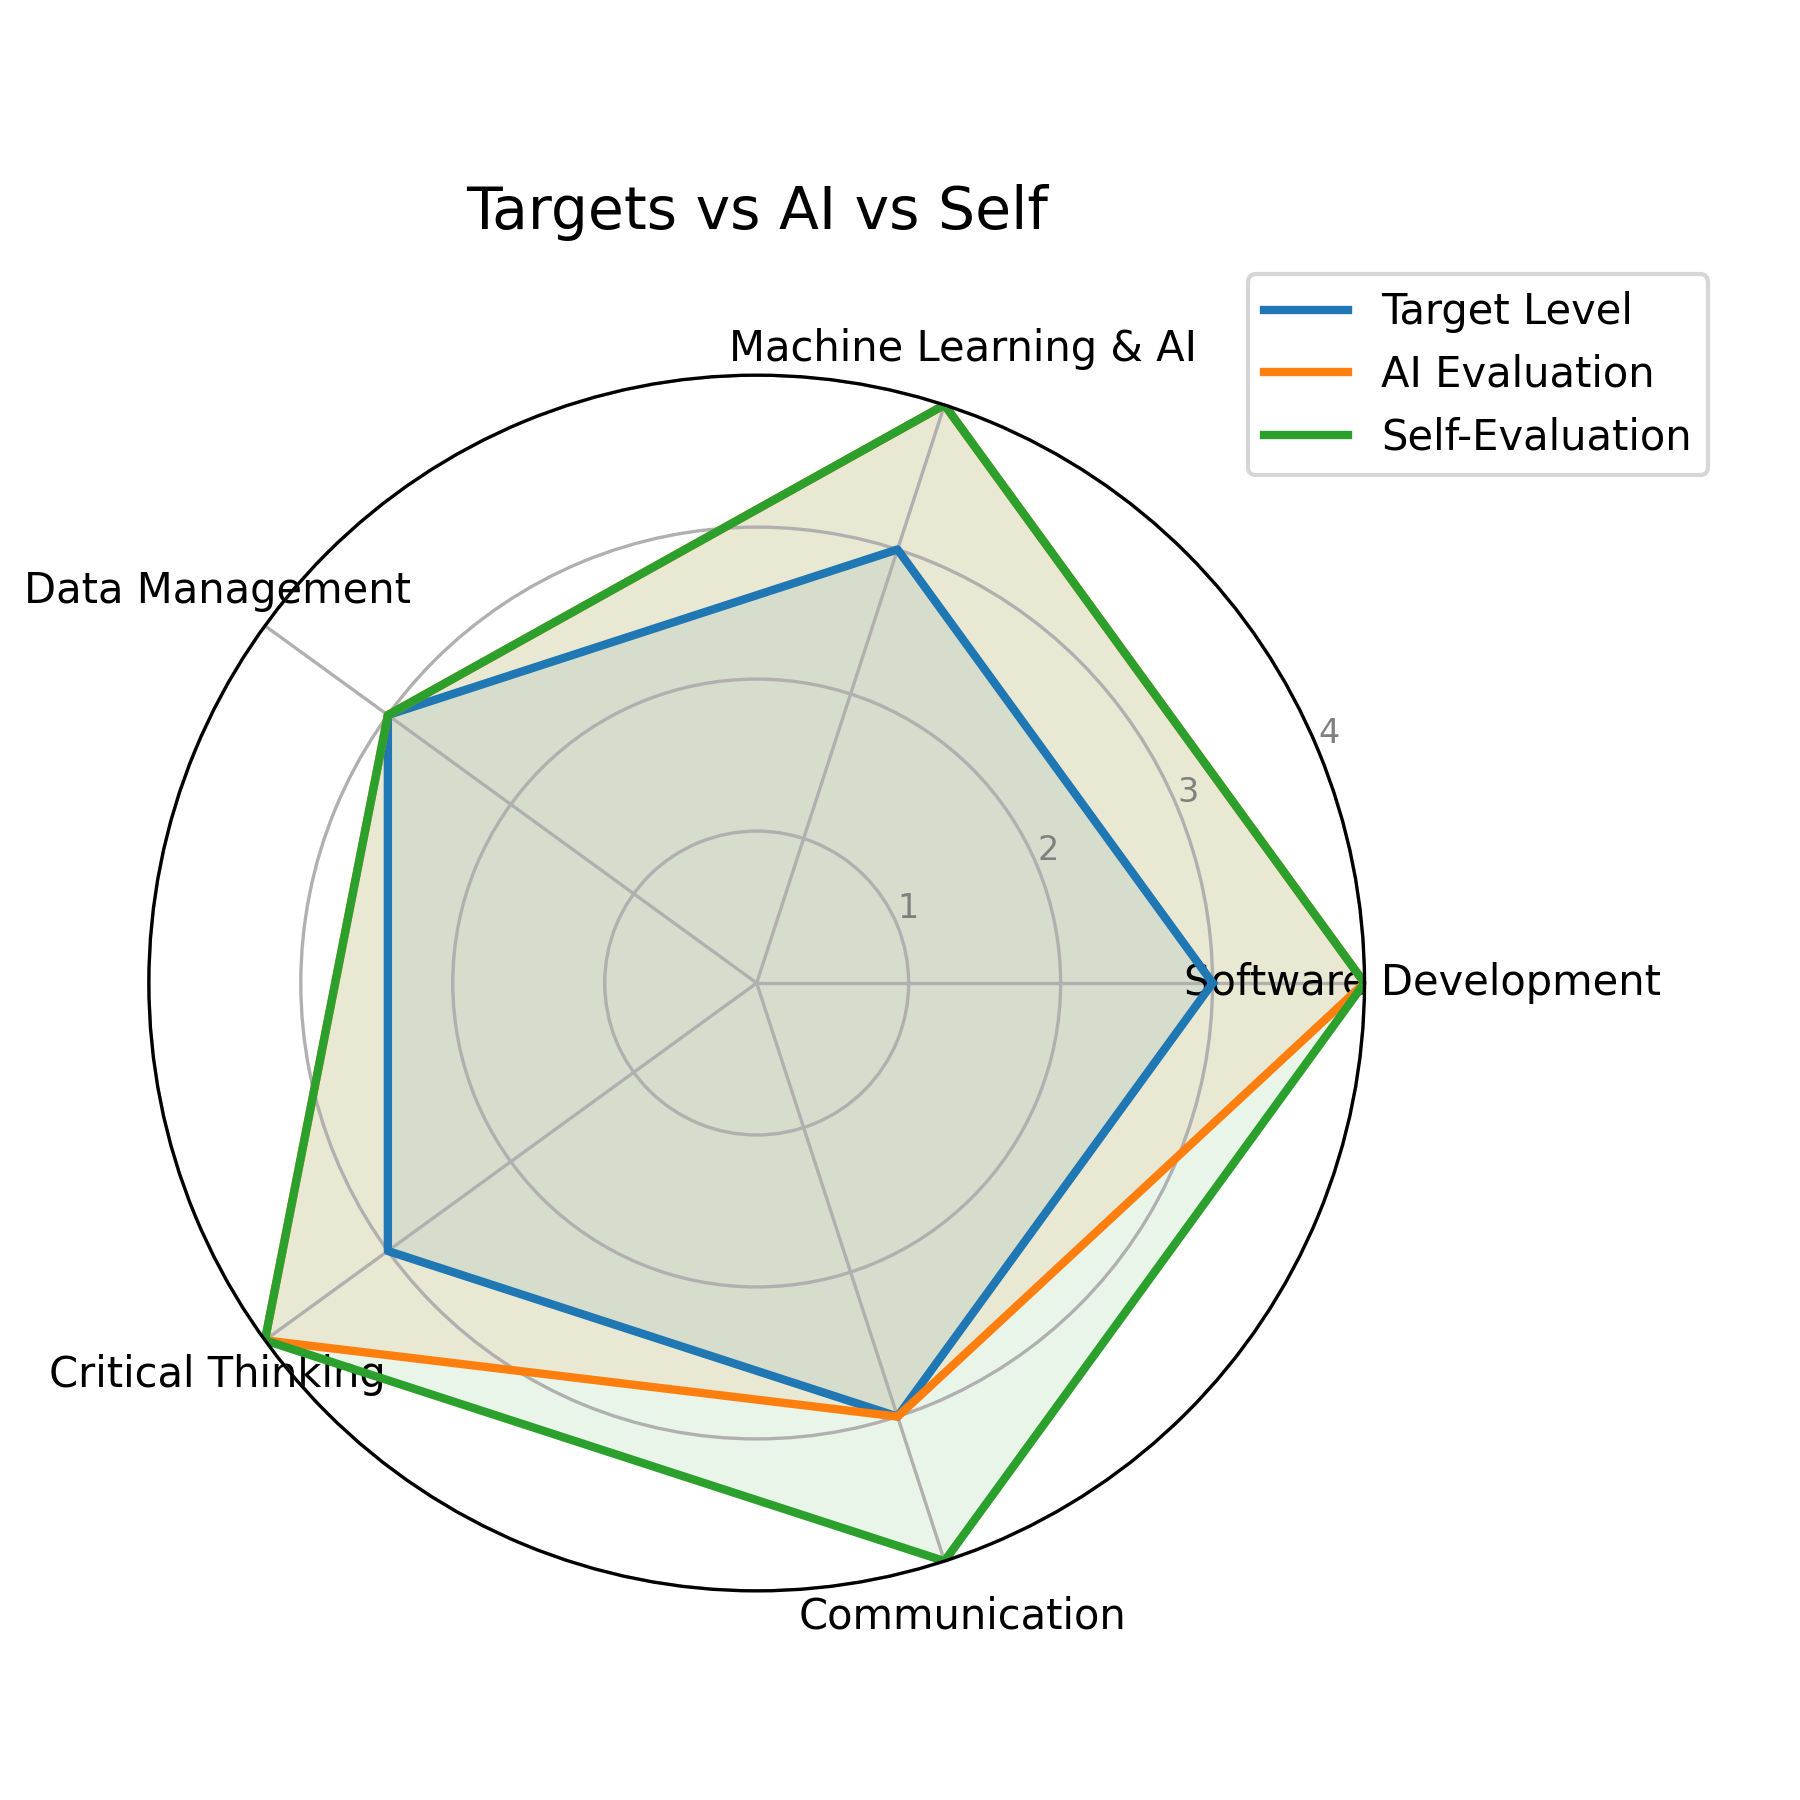
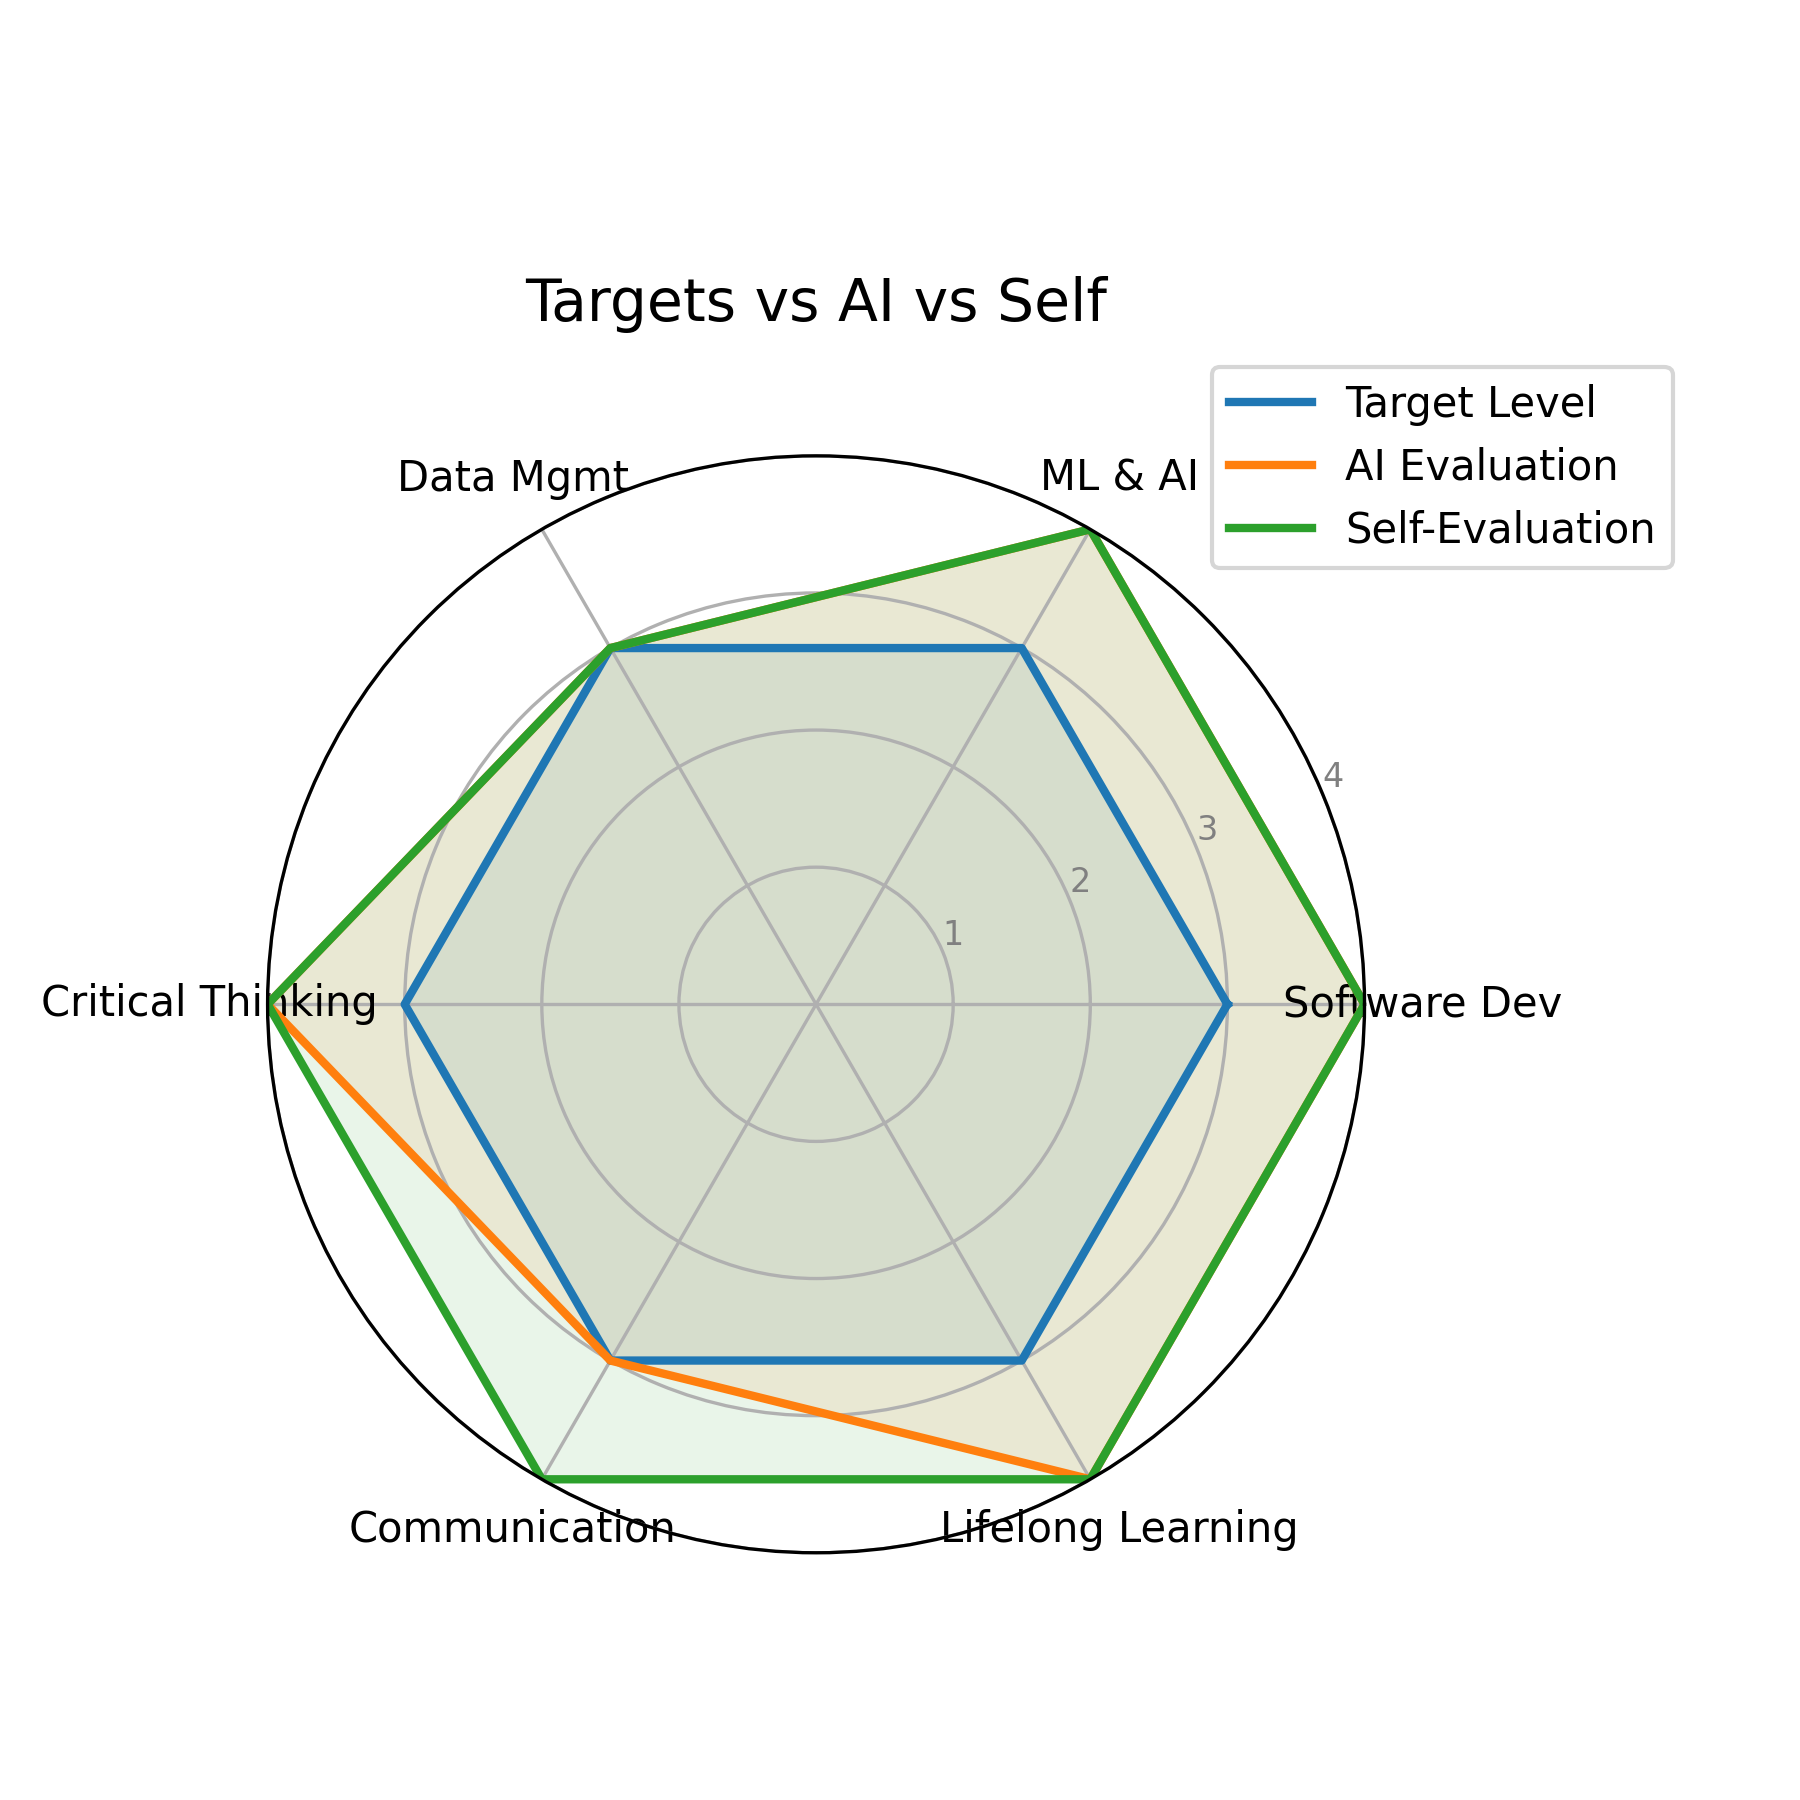
updated chap 9

diff --git a/body/knowledgeevaluation.tex b/body/knowledgeevaluation.tex
@@ -7,7 +7,18 @@ The first part focuses on comparing the program’s expected learning outcomes w
 
 \textbf{Executive Summary:} The JubJones multi-camera tracking project demonstrates strong technical proficiency, highly capable system design, and successful integration of geometric modeling and deep-learning re-identification approaches. Based on the AI evaluation, the student meets and in some areas exceeds the intended graduate outcomes of the software engineering program.
 
-\begin{table}[!ht]
+\subsection{Radar Chart Comparing Program Targets and AI Evaluation}
+This section includes a radar chart visually demonstrating the alignment or discrepancy between the intended outcomes of the curriculum and the performance assessed by AI.
+
+\begin{figure}[H]
+    \centering
+    \includegraphics[width=0.6\textwidth]{assets/eval/radar_ai_target.png}
+    \caption{Radar Chart Comparing Program Targets and AI Evaluation}
+    \label{fig:radar_ai_target}
+\end{figure}
+The chart visually demonstrates the alignment between the intended outcomes of the curriculum and the performance assessed by the AI model. The AI evaluator assigned higher proficiency levels in SE, AI, and Critical Thinking due to the advanced technical optimizations demonstrated.
+
+\begin{table}[H]
     \centering
     \small
     \begin{tabularx}{\textwidth}{|p{2.8cm}|X|X|c|c|c|}
@@ -24,6 +35,8 @@ The first part focuses on comparing the program’s expected learning outcomes w
         \hline
         Collaboration \& Communication & Writes clear documentation, gathers feedback, and collaborates. & Thorough academic writing (IEEE format), systematic problem analysis, and robust experimental design. & 3 & 3 & 3 \\
         \hline
+        Lifelong Learning & Demonstrates continuous independent learning and adapts new technologies. & Rapidly assimilated and implemented advanced SOTA models (OSNet) and complex geometric algorithms independently. & 3 & 4 & 4 \\
+        \hline
     \end{tabularx}
     \caption{Detailed AI Evaluation of Knowledge and Skills based on Curriculum Rubric}
 \end{table}
@@ -35,18 +48,8 @@ The first part focuses on comparing the program’s expected learning outcomes w
     \item \textbf{Data Management \& Analytics (Level 3):} Managing the embeddings (512-dimensional arrays) via cosine-similarity dictionaries in real-time aligns with Level 3 real-time data pipelines.
     \item \textbf{Critical \& Creative Thinking (Level 4):} Proposing the "edge trigger" heuristic and homography tracking to bypass the high overhead of continuous Re-ID marks an innovative optimization logic.
     \item \textbf{Collaboration \& Communication (Level 3):} The IEEE structured reporting and systematic documentation confirm a well-structured technical communication capability.
+    \item \textbf{Lifelong Learning (Level 4):} Successfully researching, understanding, and integrating a complex mix of new computer vision algorithms (homography) and neural networks (OSNet, YOLO) demonstrates an exceptional capacity for independent and continuous learning.
 \end{itemize}
-
-\subsection{Radar Chart Comparing Program Targets and AI Evaluation}
-This section includes a radar chart visually demonstrating the alignment or discrepancy between the intended outcomes of the curriculum and the performance assessed by AI.
-
-\begin{figure}[!ht]
-    \centering
-    \includegraphics[width=0.6\textwidth]{assets/eval/radar_ai_target.png}
-    \caption{Radar Chart Comparing Program Targets and AI Evaluation}
-    \label{fig:radar_ai_target}
-\end{figure}
-The chart visually demonstrates the alignment between the intended outcomes of the curriculum and the performance assessed by the AI model. The AI evaluator assigned higher proficiency levels in SE, AI, and Critical Thinking due to the advanced technical optimizations demonstrated.
 
 \subsection{Reflection on the AI Evaluation}
 This section discusses the student’s opinions regarding the AI’s assessment. The AI evaluation provided a fair and insightful assessment of the technical competencies demonstrated in the project. It accurately identified strengths in software architecture and machine learning integration. The AI correctly highlighted the novelty of using homography for overlapping views combined with Re-ID only on camera edge-zones as a primary strength in "Critical \& Creative Thinking." I believe the assessment is highly reasonable, although I would argue my data management required heavier algorithmic lifting behind the scenes than a strict Level 3 suggests. Despite this, it was not overly strict nor too lenient, as it maintained focus on the provided source code.
@@ -54,7 +57,18 @@ This section discusses the student’s opinions regarding the AI’s assessment.
 \section{Self-Evaluation by the Student}
 The second part focuses on student self-evaluation. The student should assess their own knowledge and skills and compare that self-assessment with the AI-generated evaluation. The discussion below explains why the two evaluations may differ.
 
-\begin{table}[!ht]
+\subsection{Radar Chart Comparing Program Targets, AI Evaluation, and Self-Evaluation}
+This section includes a radar chart visually illustrating similarities and differences among the three perspectives: the program’s target levels, the AI-based evaluation, and the student’s self-evaluation.
+
+\begin{figure}[H]
+    \centering
+    \includegraphics[width=0.6\textwidth]{assets/eval/radar_ai_target_self.png}
+    \caption{Radar Chart Comparing Program Targets, AI Evaluation, and Self-Evaluation}
+    \label{fig:radar_ai_target_self}
+\end{figure}
+This figure illustrates the similarities and differences among the curriculum expectations, AI objective metrics, and the student's own perception of their capability.
+
+\begin{table}[H]
     \centering
     \small
     \begin{tabularx}{\textwidth}{|p{3.5cm}|c|c|X|}
@@ -71,32 +85,59 @@ The second part focuses on student self-evaluation. The student should assess th
         \hline
         Communication & 3 & 4 & Worked intimately with stakeholders, meticulously documented testing rounds across the campus and factory settings. \\
         \hline
+        Lifelong Learning & 4 & 4 & Continuously researched new tracking paradigms like OSNet-AIN and deployed unfamiliar geometric mappings to solve specific project constraints. \\
+        \hline
     \end{tabularx}
     \caption{Self-Evaluation vs AI-Evaluation Summary}
 \end{table}
-
-\subsection{Radar Chart Comparing Program Targets, AI Evaluation, and Self-Evaluation}
-This section includes a radar chart visually illustrating similarities and differences among the three perspectives: the program’s target levels, the AI-based evaluation, and the student’s self-evaluation.
-
-\begin{figure}[!ht]
-    \centering
-    \includegraphics[width=0.6\textwidth]{assets/eval/radar_ai_target_self.png}
-    \caption{Radar Chart Comparing Program Targets, AI Evaluation, and Self-Evaluation}
-    \label{fig:radar_ai_target_self}
-\end{figure}
-This figure illustrates the similarities and differences among the curriculum expectations, AI objective metrics, and the student's own perception of their capability.
 
 \subsection{Reflection on Self-Evaluation Compared with AI Evaluation}
 This section presents the interpretation of the self-evaluation in comparison with the AI assessment. When comparing the self-evaluation to the AI, I agreed with the high marks across all technical aspects, scoring myself equal to the AI in Software Development, Machine Learning, Data Management, and Critical Thinking. However, I rated myself a level higher in Communication. This discrepancy stems from the fact that the AI only sees the final, polished code and documentation, completely missing the extensive on-site stakeholder communication required to evaluate the camera grids inside the actual factory logic and the countless offline team discussions held to iteratively debug our system.
 
 \section{Advisor Evaluation}
-The third part focuses on the evaluation conducted by the project advisor. The advisor should assess the student’s knowledge and skills and provide reasons for assigning each level.
+The section focuses on the evaluation conducted by the project advisor to assess the student’s knowledge and skills. %The advisor should assess the student’s knowledge and skills and provide reasons for assigning each level.
 
 \subsection{Radar Chart Comparing Program Targets, AI Evaluation, Self-Evaluation, and Advisor Evaluation}
+
+\begin{figure}[H]
+    \centering
+    \includegraphics[width=0.6\textwidth]{assets/eval/radar_comprehensive.png}
+    \caption{Radar Chart Comparing Program Targets, AI Evaluation, Self-Evaluation, and Advisor Evaluation}
+    \label{fig:radar_comprehensive}
+\end{figure}
+
 This section should be completed only after the first two parts are finalized. The advisor should read the previous sections and then conduct the third evaluation. A radar chart should be included with four lines in the same figure: the program’s target levels, the AI-based evaluation, the student’s self-evaluation, and the advisor’s evaluation. This figure should provide a comprehensive comparison across all perspectives.
 
+\begin{table}[H]
+    \centering
+    \small
+    \begin{tabularx}{\textwidth}{|p{2.6cm}|p{1.0cm}|p{1.0cm}|p{1.5cm}|X|}
+        \hline
+        \textbf{Skill Area} & \textbf{AI Score} & \textbf{Self Score} & \textbf{Advisor Score}& \textbf{Advisor Feedback} \\
+        \hline
+        Software Development & 4 & 4 & 3 & Develops a real-time system with a designed architecture, incorporating UX/UI design, testing, containerization, and a continuous user feedback loop. \\
+        \hline
+        Machine Learning \& AI & 4 & 4 & 4 & Constructs a machine learning system by integrating multiple algorithms: YOLOv26, ByteTrack, Geometric Spatial Matching, and OSNet-AIN ReID. The resulting model shows substantial performance improvements and significantly outperforms the baseline. \\
+        \hline
+        Data Management & 3 & 3 & 3 & Builds a robust system infrastructure using databases and caching technologies, including Redis, PostgreSQL, and TimescaleDB, alongside MLOps practices and load balancing. The system also incorporates a continuous user feedback loop. \\
+        \hline
+        Critical Thinking & 4 & 4 & 4 & Creates innovative solutions that elevate research lab standards and drive significant performance improvements. \\
+        \hline
+        Communication & 3 & 4 & 4 & Works closely with users to design systems that align with user requirements. Actively participates in research lab meetings to share knowledge and project progress. \\
+        \hline
+        Lifelong Learning & 4 & 4 & 3 & Demonstrates strong self-learning ability in developing both AI and software systems. Capable of learning new solutions, adapting them effectively, and optimizing performance. Maintains an open mindset and a willingness to continuously learn new technologies. \\
+        \hline
+    \end{tabularx}
+    \caption{Advisor Evaluation vs Self-Evaluation vs AI-Evaluation Summary}
+\end{table}
+
 \subsection{Advisor’s Comments on the Evaluation}
-This section should summarize the advisor’s opinions and explanations regarding the evaluation. The advisor should clarify why each level was assigned and may comment on the student’s strengths, progress, limitations, and future development directions.
+
+This work demonstrates end-to-end system design, advanced technical integration, and innovation with real-world impact. The project goes beyond building applications by architecting a scalable real-time system, containerization and MLOps, while incorporating continuous user feedback and performance optimization. It advances the state of the art by integrating multiple machine learning algorithms into a unified model that significantly outperforms baselines. In addition, the work contributes more by raising research lab standards and fostering knowledge-sharing. The demonstrated ability to independently learn, adapt, and optimize complex AI and software systems.  Lastly, this work has been validated through the best IUP project award and the publication acceptance at the 23rd International Joint Conference on Computer Science and Software Engineering (JCSSE 2026).
 
 \subsection{Student Reflection on the Advisor’s Evaluation}
-This section should present the student’s reflection on the advisor’s assessment. The student may discuss points of agreement or disagreement, lessons learned from the advisor’s perspective, and how the evaluation contributes to personal and professional development.
+Reviewing the advisor's evaluation provides a holistic and grounding perspective on the project's achievements. I strongly agree with the advisor’s high ratings in Machine Learning \& AI, Critical Thinking, and Communication (Level 4). The advisor’s acknowledgment of the significant performance improvements achieved by integrating YOLO, ByteTrack, and OSNet-AIN validates the core technical innovations of the system. Furthermore, matching my self-evaluation of 4 in Communication highlights the success of our continuous user feedback loop and active knowledge-sharing in research lab meetings, which the isolated AI-based assessment could not fully observe.
+
+However, there is a notable, yet highly constructive, divergence in the areas of Software Development and Lifelong Learning, where the advisor assigned a Level 3, compared to the Level 4 ratings from both the AI and my self-evaluation. For Software Development, while the AI focused on strict backend latency optimizations and algorithm complexity, the advisor correctly viewed the project through an enterprise lens---taking into account the broader requirements of UX/UI design, testing procedures, and containerization. This reveals a vital lesson: building a robust tracking pipeline is only one component of delivering a fully matured, production-ready software product. Similarly, for Lifelong Learning, the advisor's Level 3 rating serves as a realistic academic benchmark. While I successfully assimilated complex computer vision paradigms for this specific project, achieving true expert-level lifelong learning (Level 4) requires a sustained, career-long commitment to adapting technologies across diverse industry applications.
+
+Ultimately, the advisor's assessment acts as an invaluable bridge between academic research and industry expectations. It validates my technical and collaborative competencies while clarifying my long-term professional development goals: elevating my end-to-end software engineering practices (such as rigorous testing architectures and advanced MLOps) to the same high standards I apply to machine learning research.